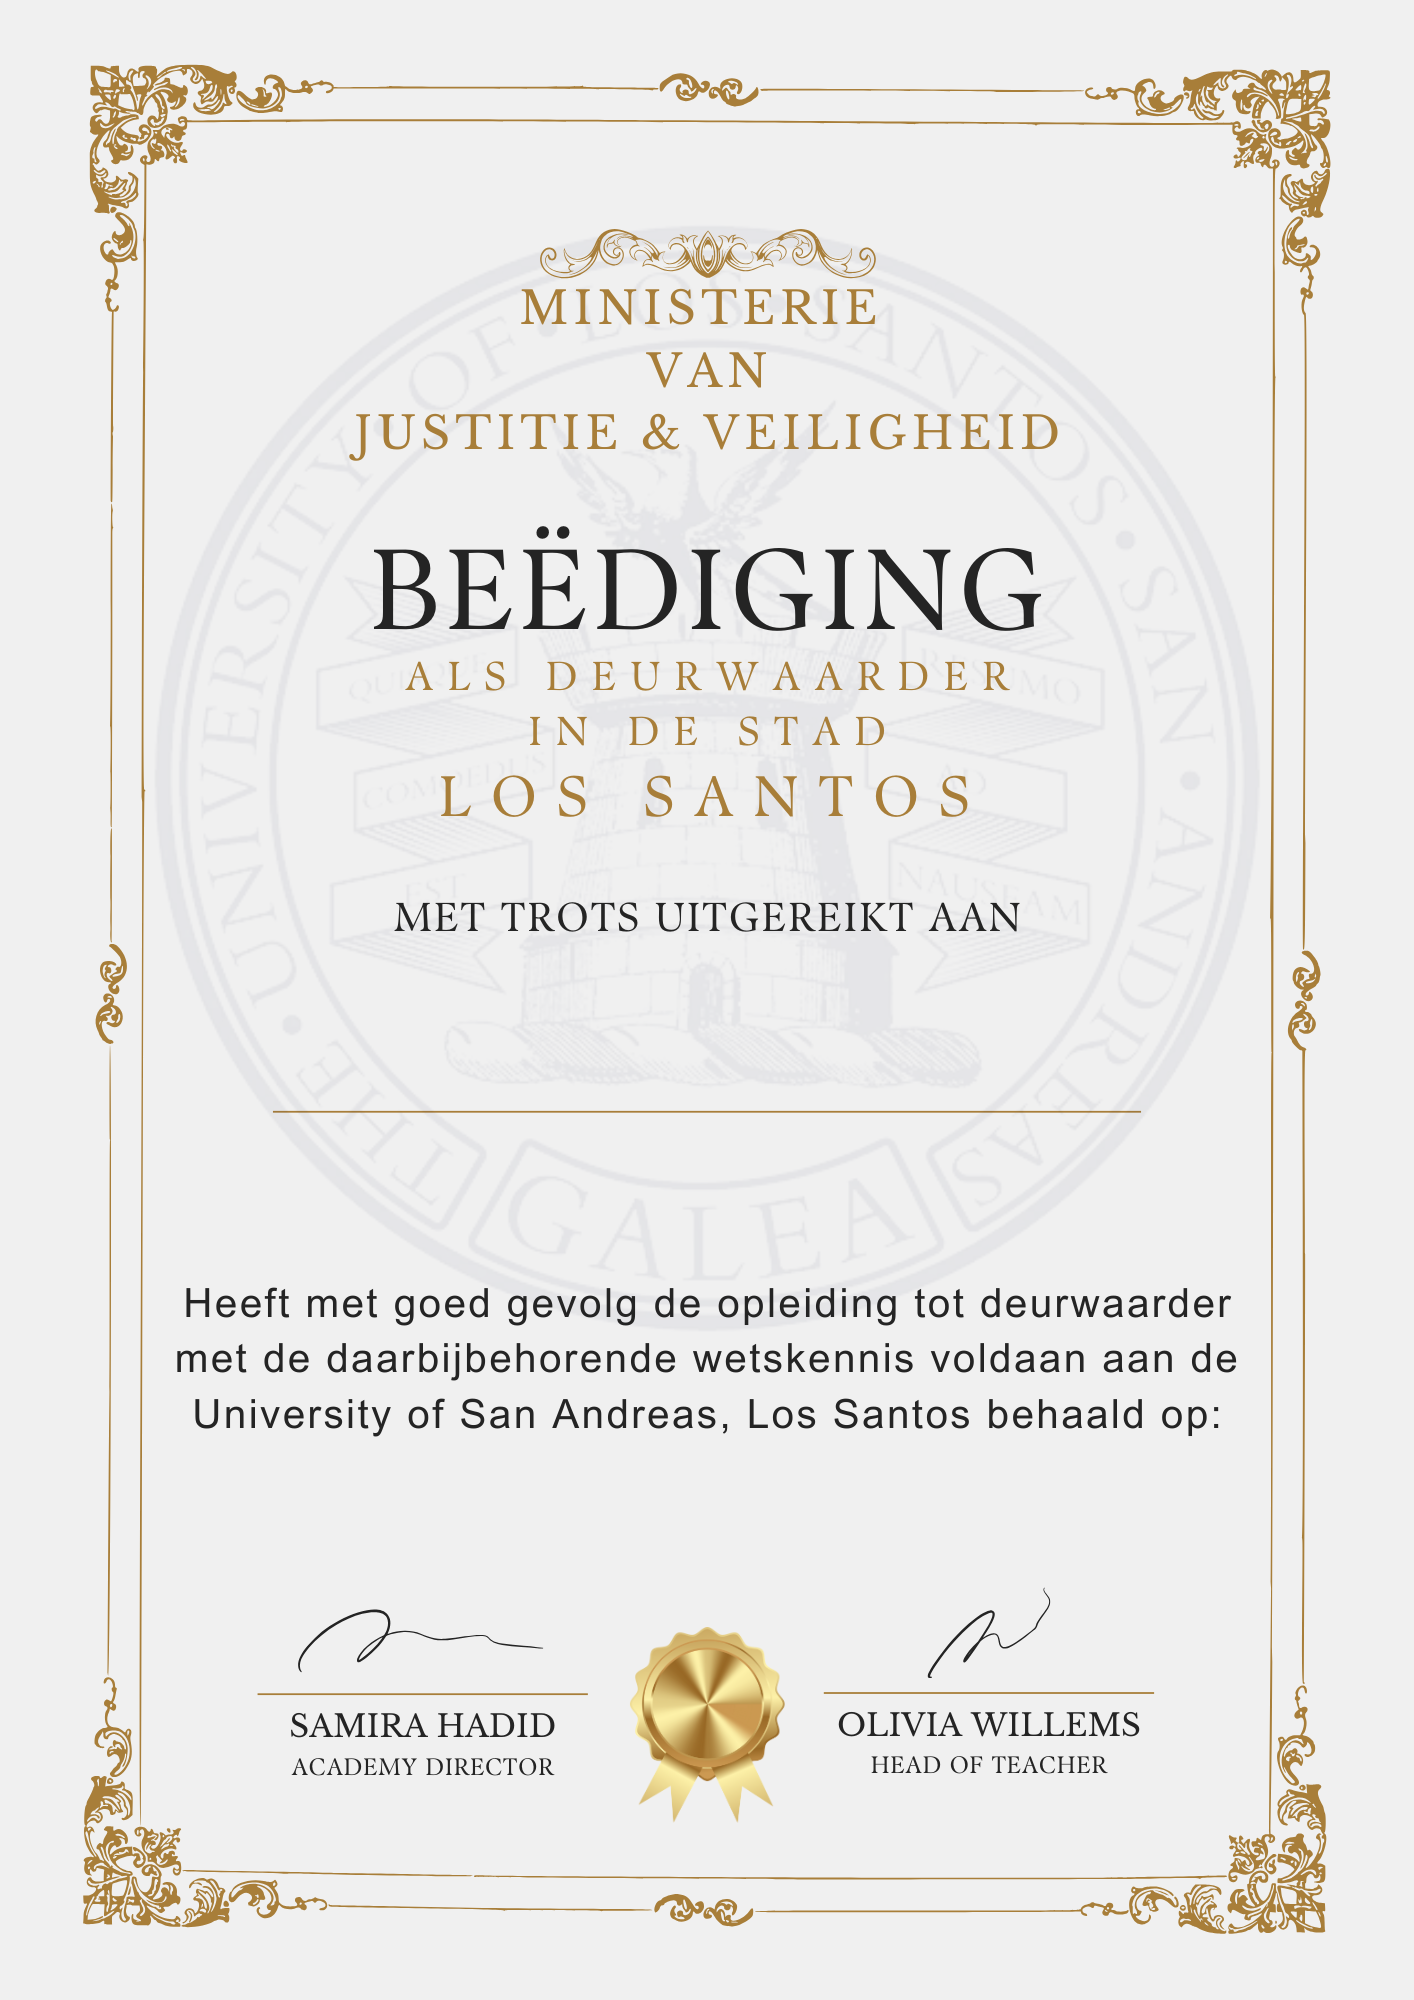
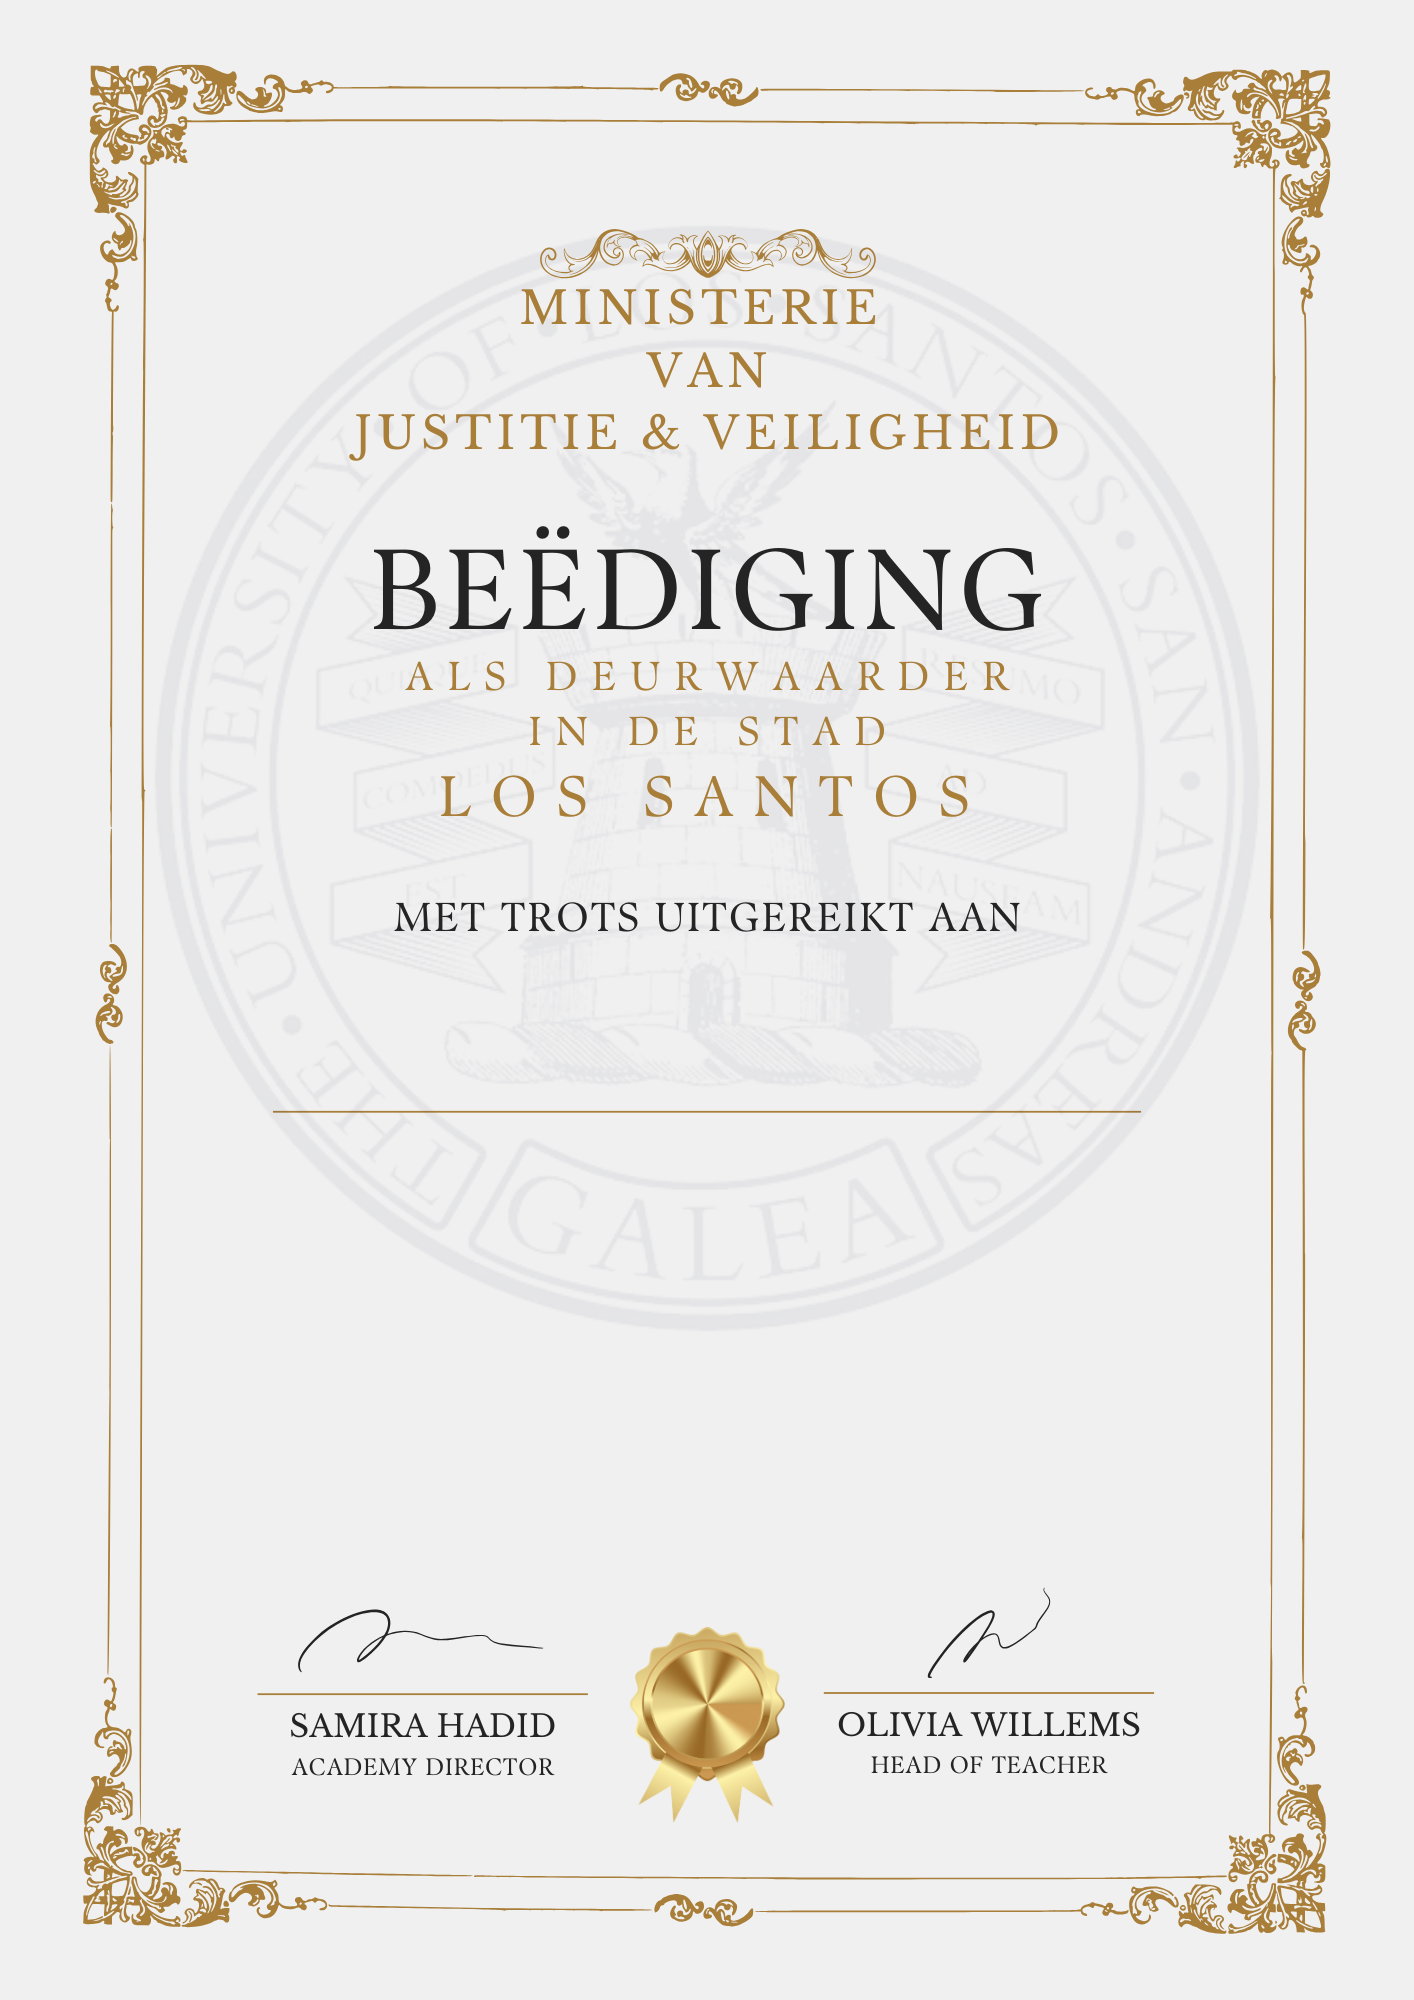
Update op deurwaarder documentatie

Changed region(s): [[0.1245, 0.651, 0.8713, 0.713]]

diff --git a/deurwaarder.html b/deurwaarder.html
@@ -3,7 +3,7 @@
 <head>
     <meta charset="UTF-8">
     <meta name="viewport" content="width=device-width, initial-scale=1.0">
-    <title>Beëdiging deurwaarder</title>
+    <title>Beëdiging deurwaarder - Demo</title>
     <style>
         body {
             font-family: 'Arial', sans-serif;
@@ -13,33 +13,33 @@
             margin: 0;
             padding: 0;
         }
-
         h1 {
             color: #333;
             font-size: 2.5em;
             margin-top: 20px;
             font-weight: bold;
-            font-family: 'Brush Script MT', cursive; /* Lettertype Brush Script MT */
+            font-family: 'Brush Script MT', cursive;
         }
-
-        #overlayForm {
+        #demoForm {
             background-color: #fff;
             padding: 20px;
             margin: 20px auto;
             width: 60%;
             border-radius: 8px;
             box-shadow: 0 4px 12px rgba(0, 0, 0, 0.1);
+            display: flex;
+            flex-direction: column;
+            align-items: center;
         }
-
-        #overlayForm label {
+        #demoForm label {
             font-size: 1.1em;
             color: #555;
             margin-bottom: 8px;
             display: block;
             text-align: left;
+            width: 100%;
         }
-
-        #overlayForm input {
+        #demoForm input {
             width: 100%;
             padding: 12px;
             margin: 10px 0;
@@ -48,8 +48,7 @@
             font-size: 1em;
             box-sizing: border-box;
         }
-
-        #overlayForm button {
+        #demoForm button {
             padding: 12px 25px;
             background-color: #4CAF50;
             color: #fff;
@@ -58,153 +57,109 @@
             border-radius: 6px;
             cursor: pointer;
             transition: background-color 0.3s ease;
+            margin-top: 10px;
         }
-
-        #overlayForm button:hover {
+        #demoForm button:hover {
             background-color: #45a049;
         }
-
         canvas {
             border: 1px solid #ccc;
             margin-top: 30px;
             background-color: #fff;
             box-shadow: 0 4px 12px rgba(0, 0, 0, 0.1);
+            max-width: 100%;
+            height: auto;
         }
-
-        .afgifteDatum {
-            font-family: cursive;
-            font-size: 50px;
-            color: #3d464f;
-            text-align: center;
-            margin: 0 auto;
-            word-wrap: break-word; /* Zorg ervoor dat de tekst niet buiten de container loopt */
-            overflow-wrap: break-word; /* Alternatieve methode om lange woorden af te breken */
-            word-break: break-word; /* Verbreekt lange woorden als ze te breed zijn voor de container */
-            white-space: normal; /* Zorgt ervoor dat de tekst op meerdere regels kan worden verdeeld */
-        }
-
-        .afgifteDatum-container {
-            text-align: center;
+        #apiFeedback {
             margin-top: 20px;
-            max-width: 80%; /* Maximale breedte van de tekstcontainer */
-            margin-left: auto;
-            margin-right: auto;
-        }
-
-        @media (max-width: 768px) {
-            #overlayForm {
-                width: 90%;
-            }
-
-            h1 {
-                font-size: 2em;
-            }
+            font-size: 1.1em;
+            color: #333;
         }
     </style>
 </head>
 <body>
 
-<h1>Beëdiging deurwaarder</h1>
-<form id="overlayForm">
-    <label for="firstName">Voornaam:</label>
-    <input type="text" id="firstName" required>
+    <h1>Beëdiging deurwaarder - Demo</h1>
 
-    <label for="lastName">Achternaam (inclusief voorvoegsels):</label>
-    <input type="text" id="lastName" required>
+    <form id="demoForm">
+        <label for="firstName">Voornaam:</label>
+        <input type="text" id="firstName" required>
 
-    <button type="submit">Maak Nieuwe Akte</button>
-</form>
+        <label for="lastName">Achternaam (inclusief voorvoegsels):</label>
+        <input type="text" id="lastName" required>
 
-<canvas id="imageCanvas" width="1414" height="2000"></canvas>
+        <button type="submit">Maak Nieuwe Akte</button>
+    </form>
 
-<!-- Dit is het deel waar de tekst ook op de pagina wordt weergegeven -->
-<div class="afgifteDatum-container">
-    <div id="afgifteDatumText" class="afgifteDatum">
-        <!-- De tekst wordt hier door de JavaScript toegevoegd -->
-    </div>
-</div>
+    <canvas id="imageCanvas" width="1414" height="2000"></canvas>
 
-<script>
-    document.addEventListener('DOMContentLoaded', function() {
-        const form = document.getElementById('overlayForm');
-        const canvas = document.getElementById('imageCanvas');
-        const ctx = canvas.getContext('2d');
-        const image = new Image();
-        image.src = 'deurwaarder.png';
+    <div id="apiFeedback"></div>
 
-        image.onload = () => {
-            ctx.drawImage(image, 0, 0, canvas.width, canvas.height);
-        };
+    <script>
+        document.addEventListener('DOMContentLoaded', function() {
+            const form = document.getElementById('demoForm');
+            const canvas = document.getElementById('imageCanvas');
+            const ctx = canvas.getContext('2d');
+            const image = new Image();
+            image.src = 'deurwaarder.png';
 
-        form.addEventListener('submit', function(event) {
-            event.preventDefault();
+            image.onload = () => {
+                updateCanvas();
+            };
 
-            const firstName = document.getElementById('firstName').value.trim();
-            const lastName = document.getElementById('lastName').value.trim();
-            
-            const today = new Date();
-            const todayString = today.toLocaleDateString('nl-NL', {
-                day: 'numeric',
-                month: 'long',
-                year: 'numeric'
-            });
+            function updateCanvas() {
+                ctx.clearRect(0, 0, canvas.width, canvas.height);
+                ctx.drawImage(image, 0, 0, canvas.width, canvas.height);
 
-            const fullText = `Heeft met goed gevolg de opleiding tot deurwaarder met de daarbijbehorende wetskennis voldaan aan de\nUniversity of San Andreas, Los Santos behaald op ${todayString}`;
-
-            // Zet de tekst in de div op de pagina
-            const textContainer = document.getElementById('afgifteDatumText');
-            textContainer.textContent = fullText;
-
-            // Pas de breedte aan voor de tekst in de div
-            const textWidth = 0.8 * window.innerWidth; // Pas dit percentage aan voor de gewenste breedte
-            textContainer.style.width = textWidth + 'px';
-
-            ctx.clearRect(0, 0, canvas.width, canvas.height);
-            ctx.drawImage(image, 0, 0, canvas.width, canvas.height);
-
-            ctx.fillStyle = 'Black';
-            ctx.font = '60px Brush Script MT'; 
-            ctx.textAlign = "center";
-            ctx.fillText(firstName, canvas.width / 2, 1000);
-            ctx.fillText(lastName, canvas.width / 2, 1100);
-
-            ctx.fillStyle = '#3d464f';
-            ctx.font = '50px Arial'; 
-            ctx.textAlign = "center";
-            ctx.fillText(fullText, canvas.width / 2, 1500);  // De tekst met de datum wordt hier weergegeven
-
-            canvas.toBlob(function(blob) {
-                const formData = new FormData();
-                formData.append('file', blob, `Deurwaarderakte_${firstName}_${lastName}_${todayString}.png`);
-
-                const apiKey = 'nT2E4QUBOqnmqZlEAybtEl0UcXQO89md';
-                const url = 'https://api.fivemanage.com/api/image';
-
-                fetch(url, {
-                    method: 'POST',
-                    headers: {
-                        'Authorization': `Bearer ${apiKey}`
-                    },
-                    body: formData
-                })
-                .then(response => response.text())
-                .then(text => {
-                    console.log('Response van de server:', text);
-                    try {
-                        const data = JSON.parse(text);
-                        const imageUrl = data.url;
-                        alert('Afbeelding succesvol geüpload: ' + imageUrl);
-                    } catch (error) {
-                        alert('Fout bij het verwerken van de serverresponse: ' + text);
-                    }
-                })
-                .catch(error => {
-                    alert('Fout bij uploaden van afbeelding: ' + error);
+                const firstName = document.getElementById('firstName').value.trim();
+                const lastName = document.getElementById('lastName').value.trim();
+                const today = new Date();
+                const todayString = today.toLocaleDateString('nl-NL', {
+                    day: 'numeric',
+                    month: 'long',
+                    year: 'numeric'
                 });
-            }, 'image/png');
-        });
-    });
-</script>
+                const fullText = `Heeft met goed gevolg de opleiding tot deurwaarder met de daarbijbehorende wetskennis voldaan aan de\nUniversity of San Andreas, Los Santos behaald op ${todayString}.`;
 
+                ctx.fillStyle = 'Black';
+                ctx.font = '150px Brush Script MT';
+                ctx.textAlign = "center";
+                ctx.fillText(firstName, canvas.width / 2, 1100);
+                ctx.fillText(lastName, canvas.width / 2, 1215);
+
+                ctx.fillStyle = '#000000';
+                ctx.font = '40px Arial';
+                ctx.textAlign = "center";
+                const textWidthPercentage = 0.75;
+                const maxWidth = canvas.width * textWidthPercentage;
+                drawTextWithLineBreaks(ctx, fullText, canvas.width / 2, 1320, maxWidth);
+            }
+
+            function drawTextWithLineBreaks(context, text, x, y, maxWidth) {
+                const words = text.split(" ");
+                let line = "";
+                const lineHeight = 50;
+
+                for (let n = 0; n < words.length; n++) {
+                    const testLine = line + words[n] + " ";
+                    const metrics = context.measureText(testLine);
+                    const testWidth = metrics.width;
+                    if (testWidth > maxWidth && n > 0) {
+                        context.fillText(line, x, y);
+                        line = words[n] + " ";
+                        y += lineHeight;
+                    } else {
+                        line = testLine;
+                    }
+                }
+                context.fillText(line, x, y);
+            }
+
+            form.addEventListener('submit', function(event) {
+                event.preventDefault();
+                updateCanvas();
+            });
+        });
+    </script>
 </body>
 </html>
